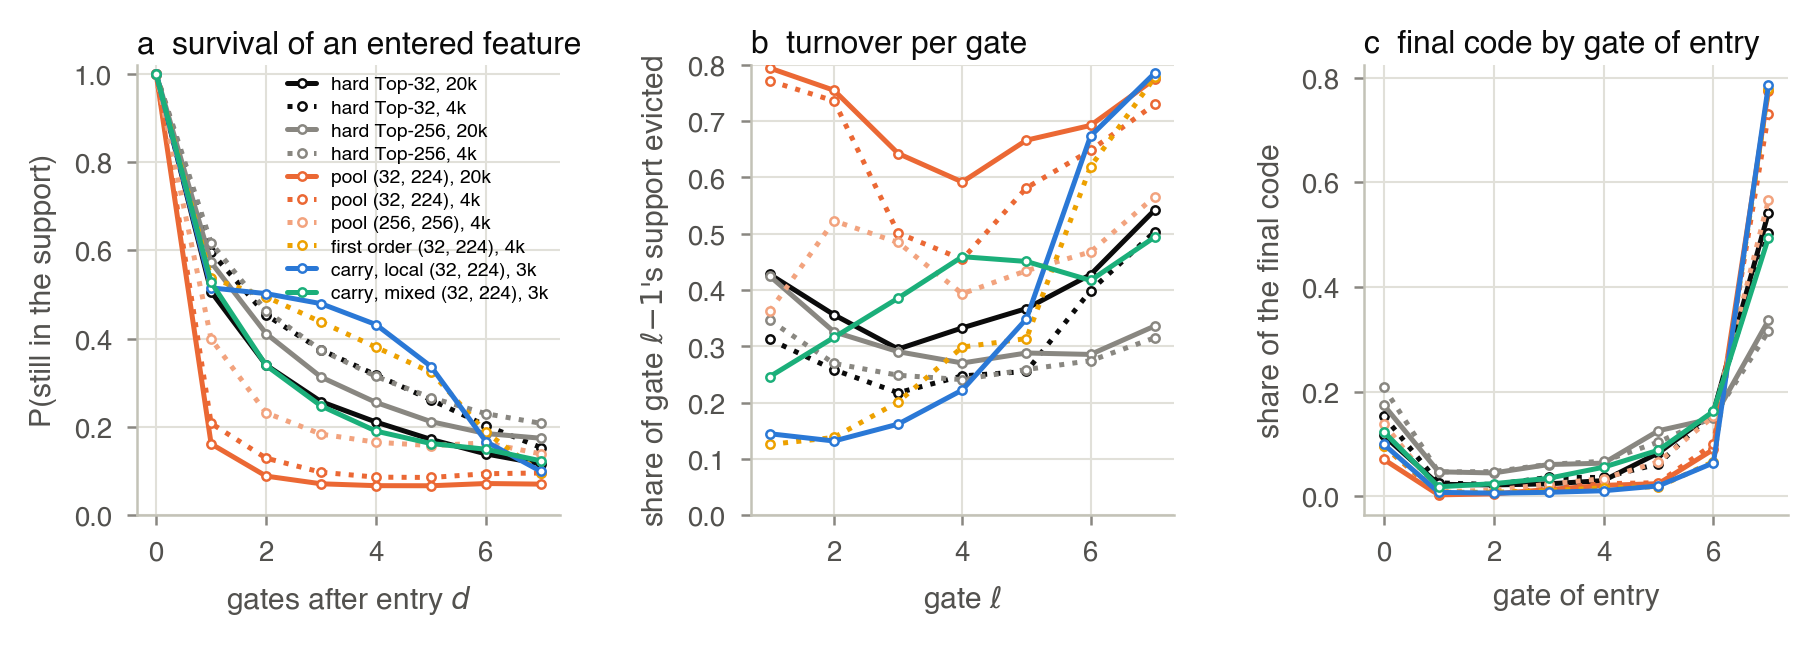
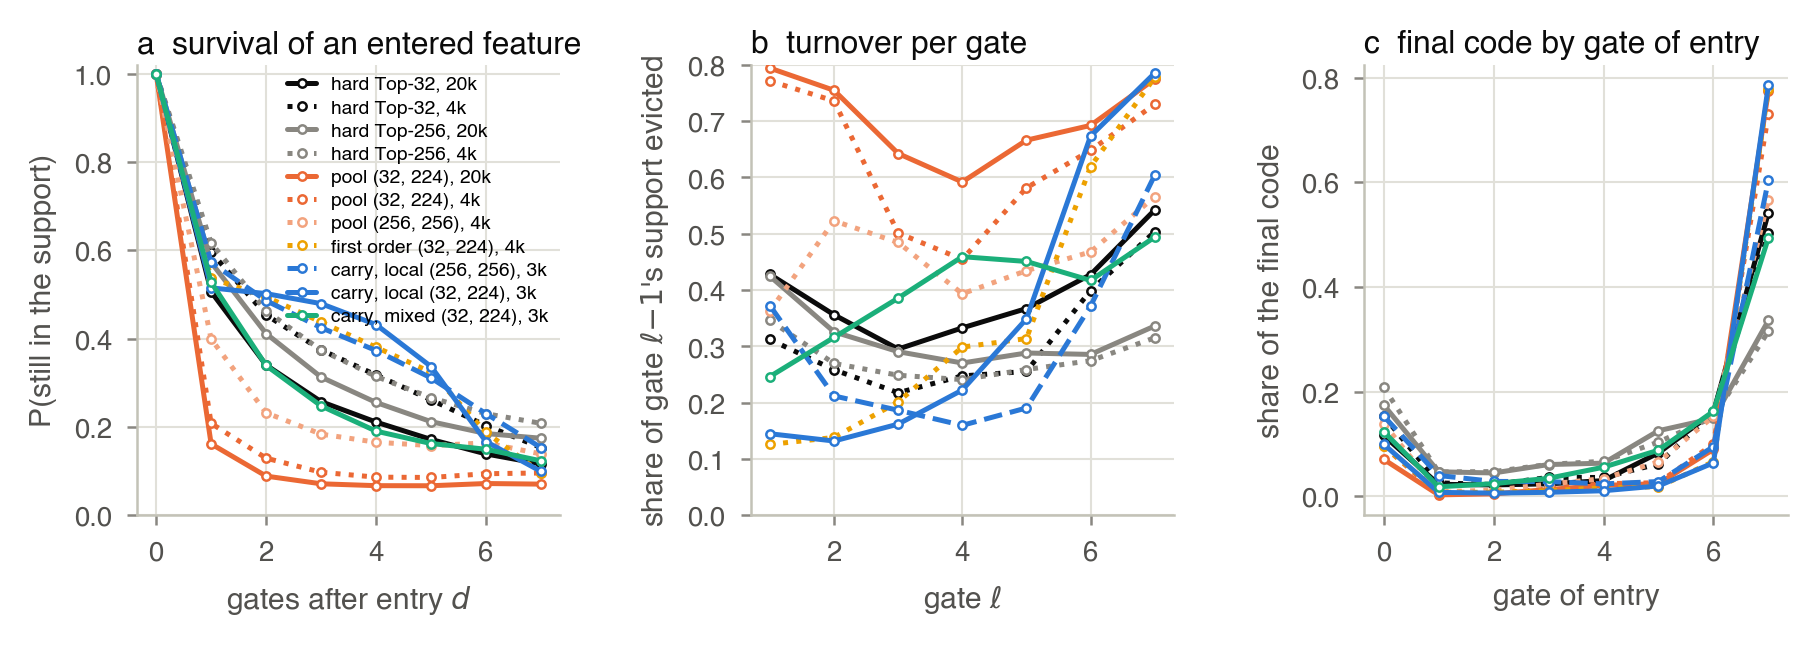
carry note: K=256 screens (local, mixed), table

diff --git a/docs/carry-surrogate.tex b/docs/carry-surrogate.tex
@@ -160,11 +160,24 @@ over hard Top-32 at the same step (\(-0.124\)): with 32 active features it reach
 exceeded 1 (the \code{pool} cell spiked four times, to 3.3); both have the hard model's feature usage (usage entropy
 \(0.79\); hard \(0.73\), first order \(0.79\), \code{pool} \(0.59\)) and the hard model's use of the carry
 (Fig.~\ref{fig:runs}: one-gate survival \(0.52\) and \(0.53\) at step 3000, turnover \(35\%\) and \(33\%\), against
-\(0.60\)/\(31\%\) for hard Top-32 and \(0.21\)/\(63\%\) for \code{pool}), concentrated differently along depth --
-\(13\)--\(25\%\) of the support replaced at gates 1--4 and \(67\)--\(79\%\) at the last two, where the hard model
-replaces \(25\)--\(50\%\) everywhere.  The gain of the unmodified surrogate at \(K=32\) is thus not bought by the
+\(0.60\)/\(31\%\) for hard Top-32 and \(0.21\)/\(63\%\) for \code{pool}).  The local scope (like first order)
+places its turnover at the top -- \(13\)--\(25\%\) of the support replaced at gates 1--4, \(67\)--\(79\%\) at the last
+two, \(79\%\) of the final code entering at the last gate -- while the mixed scope has the hard model's profile
+(\(25\)--\(49\%\) at every gate, \(49\%\) of the final code from the last gate, \(12\%\) carried from gate 0).  The gain of the unmodified surrogate at \(K=32\) is thus not bought by the
 products along the carry: a backward without them keeps the gain, keeps the carry, and with the downstream reads in
-the entry term doubles the gain.  \PH{K=128, 256; the 10k continuation}
+the entry term doubles the gain.
+
+At \(K=256\), \(J=256\), where the unmodified surrogate is the pathological case (\(+0.047\) above hard Top-256 at
+step 3000, \(+0.034\) at 20k, its code turning over \(46\%\) per gate against the hard model's \(28\%\)), the local scope ends
+step 3000 at \(+0.009\), and the gap closes steadily (\(+0.065\), \(+0.030\), \(+0.016\), \(+0.009\) at steps 500,
+1000, 2000, 3000, against \(+0.133\), \(+0.087\), \(+0.057\), \(+0.048\) for \code{pool}); the hard baseline carries
+the post-norm, worth about \(0.007\) to a hard model in the stream grid, and the surrogate cells do not.  The local
+model's code is the hard model's again -- one-gate survival \(0.57\), turnover \(30\%\) per gate, usage entropy
+\(0.94\) (hard: \(0.62\), \(28\%\), \(0.93\); \code{pool}: \(0.40\), \(46\%\), \(0.89\)) -- and its gradient norm never
+exceeded 1.  The mixed scope goes further: \(+0.005\) at step 1000, below hard Top-256 from step 2000 and
+\(-0.0045\) at 3000 (\(1.736\) against \(1.741\)) -- a surrogate with 256 active features ahead of the hard model with
+the same count, which no code-carried cell of the grid achieved -- with hard Top-512 at \(-0.037\).
+\PH{K=128; the 10k continuations}
 
 \begin{figure}[t]
 \centering
@@ -176,16 +189,20 @@ one panel per \((K, J)\); the dashed line is hard Top-\((K{+}J)\), the model tha
 
 \begin{table}[t]
 \centering\small
-\begin{tabular}{llcccccc}
+\begin{tabular}{llccccccc}
 \toprule
- & & \multicolumn{6}{c}{validation CE at step 3000, minus hard Top-\(K\)} \\
-\cmidrule(lr){3-8}
-\(K\) & \(J\) & pool & first order & carry local & carry mixed & carry mixed, \(\rho{=}0.5\) & hard Top-\((K{+}J)\) \\
+ & & \multicolumn{7}{c}{validation CE at step 3000, minus hard Top-\(K\) (code carried, post-norm)} \\
+\cmidrule(lr){3-9}
+\(K\) & \(J\) & pool & first order & carry local & carry mixed & mixed, \(\rho{=}0.5\) & carry persistent & hard Top-\((K{+}J)\) \\
 \midrule
-\PH{} \\
+32 & 224 & \(-0.061\) & \(-0.033\) & \(-0.058\) & \(\mathbf{-0.118}\) & \PH{} & -- & \(-0.158\) \\
+128 & 384 & \(+0.016\) & \PH{} & \PH{} & \PH{} & -- & -- & \(-0.072\) \\
+256 & 256 & \(+0.047\) & \PH{} & \(+0.009\) & \(\mathbf{-0.005}\) & \PH{} & \PH{} & \(-0.037\) \\
 \bottomrule
 \end{tabular}
-\caption{\PH{}}
+\caption{Step-matched validation CE after 3000 steps, each cell minus the code-carried hard Top-\(K\) baseline of its
+row (hard Top-32 \(1.899\), Top-128 \(1.776\), Top-256 \(1.741\)); \code{pool} and first order are the grid's own runs
+read at step 3000.  Bold: below every other surrogate of the row.}
 \label{tab:screens}
 \end{table}
 

diff --git a/scripts/plot_carry.py b/scripts/plot_carry.py
@@ -49,6 +49,7 @@ plt.rcParams.update({
 # scope -> (label, color, linestyle)
 STYLE = {
     "hard": ("hard Top-$K$", INK, "-"),
+    "cm05": (r"carry, mixed, $\rho{=}0.5$", AQUA, ":"),
     "pool": ("RBLapSum, pool", ORANGE, "-"),
     "fo": ("first order", YELLOW, "-"),
     "cl": ("carry, local", BLUE, "-"),
@@ -280,6 +281,25 @@ def table_runs():
               f"final from gate0 {d['final_entry'][0]:.2f} last gate {d['final_entry'][-1]:.2f}  reentry {d['reentry_frac']:.2f}")
 
 
+def latex_table(step=3000):
+    """Rows of the note's table: val CE at `step` minus hard Top-K, per cell and scope."""
+    cv = curves()
+    cols = ("pool", "fo", "cl", "cm", "cm05", "cp", "ch")
+    print("% K & J & " + " & ".join(cols) + " & hard Top-(K+J) \\\\")
+    for K in (32, 64, 128, 256):
+        J, hard_k, hard_kj = CELLS[K]
+        h = series(cv, hard_k)
+        if step not in h:
+            continue
+        cells = []
+        for key in cols:
+            d = series(cv, run_of(K, key))
+            cells.append(f"{d[step] - h[step]:+.3f}" if step in d else "--")
+        hk = series(cv, hard_kj)
+        cells.append(f"{hk[step] - h[step]:+.3f}" if step in hk else "--")
+        print(f"{K} & {J} & " + " & ".join(cells) + f" \\\\   % hard Top-{K} = {h[step]:.4f}")
+
+
 if __name__ == "__main__":
     os.makedirs(OUT, exist_ok=True)
     fig_init()
@@ -288,3 +308,4 @@ if __name__ == "__main__":
     table_screens()
     fig_runs()
     table_runs()
+    latex_table()
